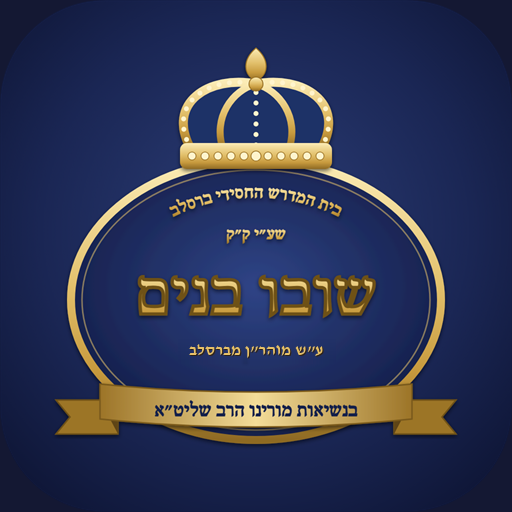
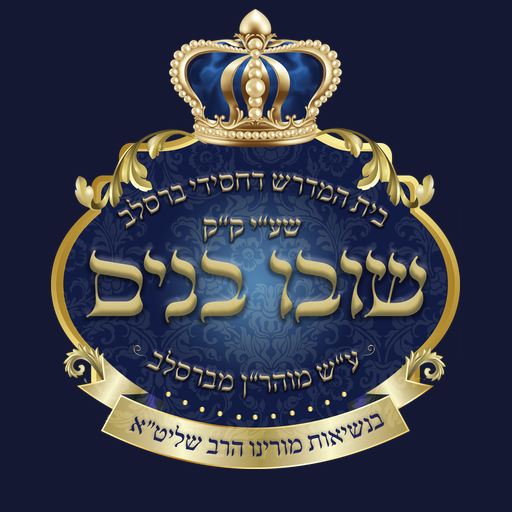
סמל: הלוגו המקורי של בית הכנסת (במקום הציור), מוגבה מעט

diff --git a/index.html b/index.html
@@ -5,9 +5,9 @@
 <meta name="viewport" content="width=device-width,initial-scale=1,viewport-fit=cover">
 <meta name="theme-color" content="#141833">
 <title>סידור וניהול – עליות לתורה</title>
-<link rel="manifest" href="manifest.json">
-<link rel="icon" type="image/png" sizes="192x192" href="icon-192.png">
-<link rel="apple-touch-icon" href="apple-touch-icon.png">
+<link rel="manifest" href="manifest.json?v=2">
+<link rel="icon" type="image/png" sizes="192x192" href="icon-192.png?v=2">
+<link rel="apple-touch-icon" href="apple-touch-icon.png?v=2">
 <meta name="apple-mobile-web-app-capable" content="yes">
 <meta name="apple-mobile-web-app-title" content="עליות לתורה">
 <style>
